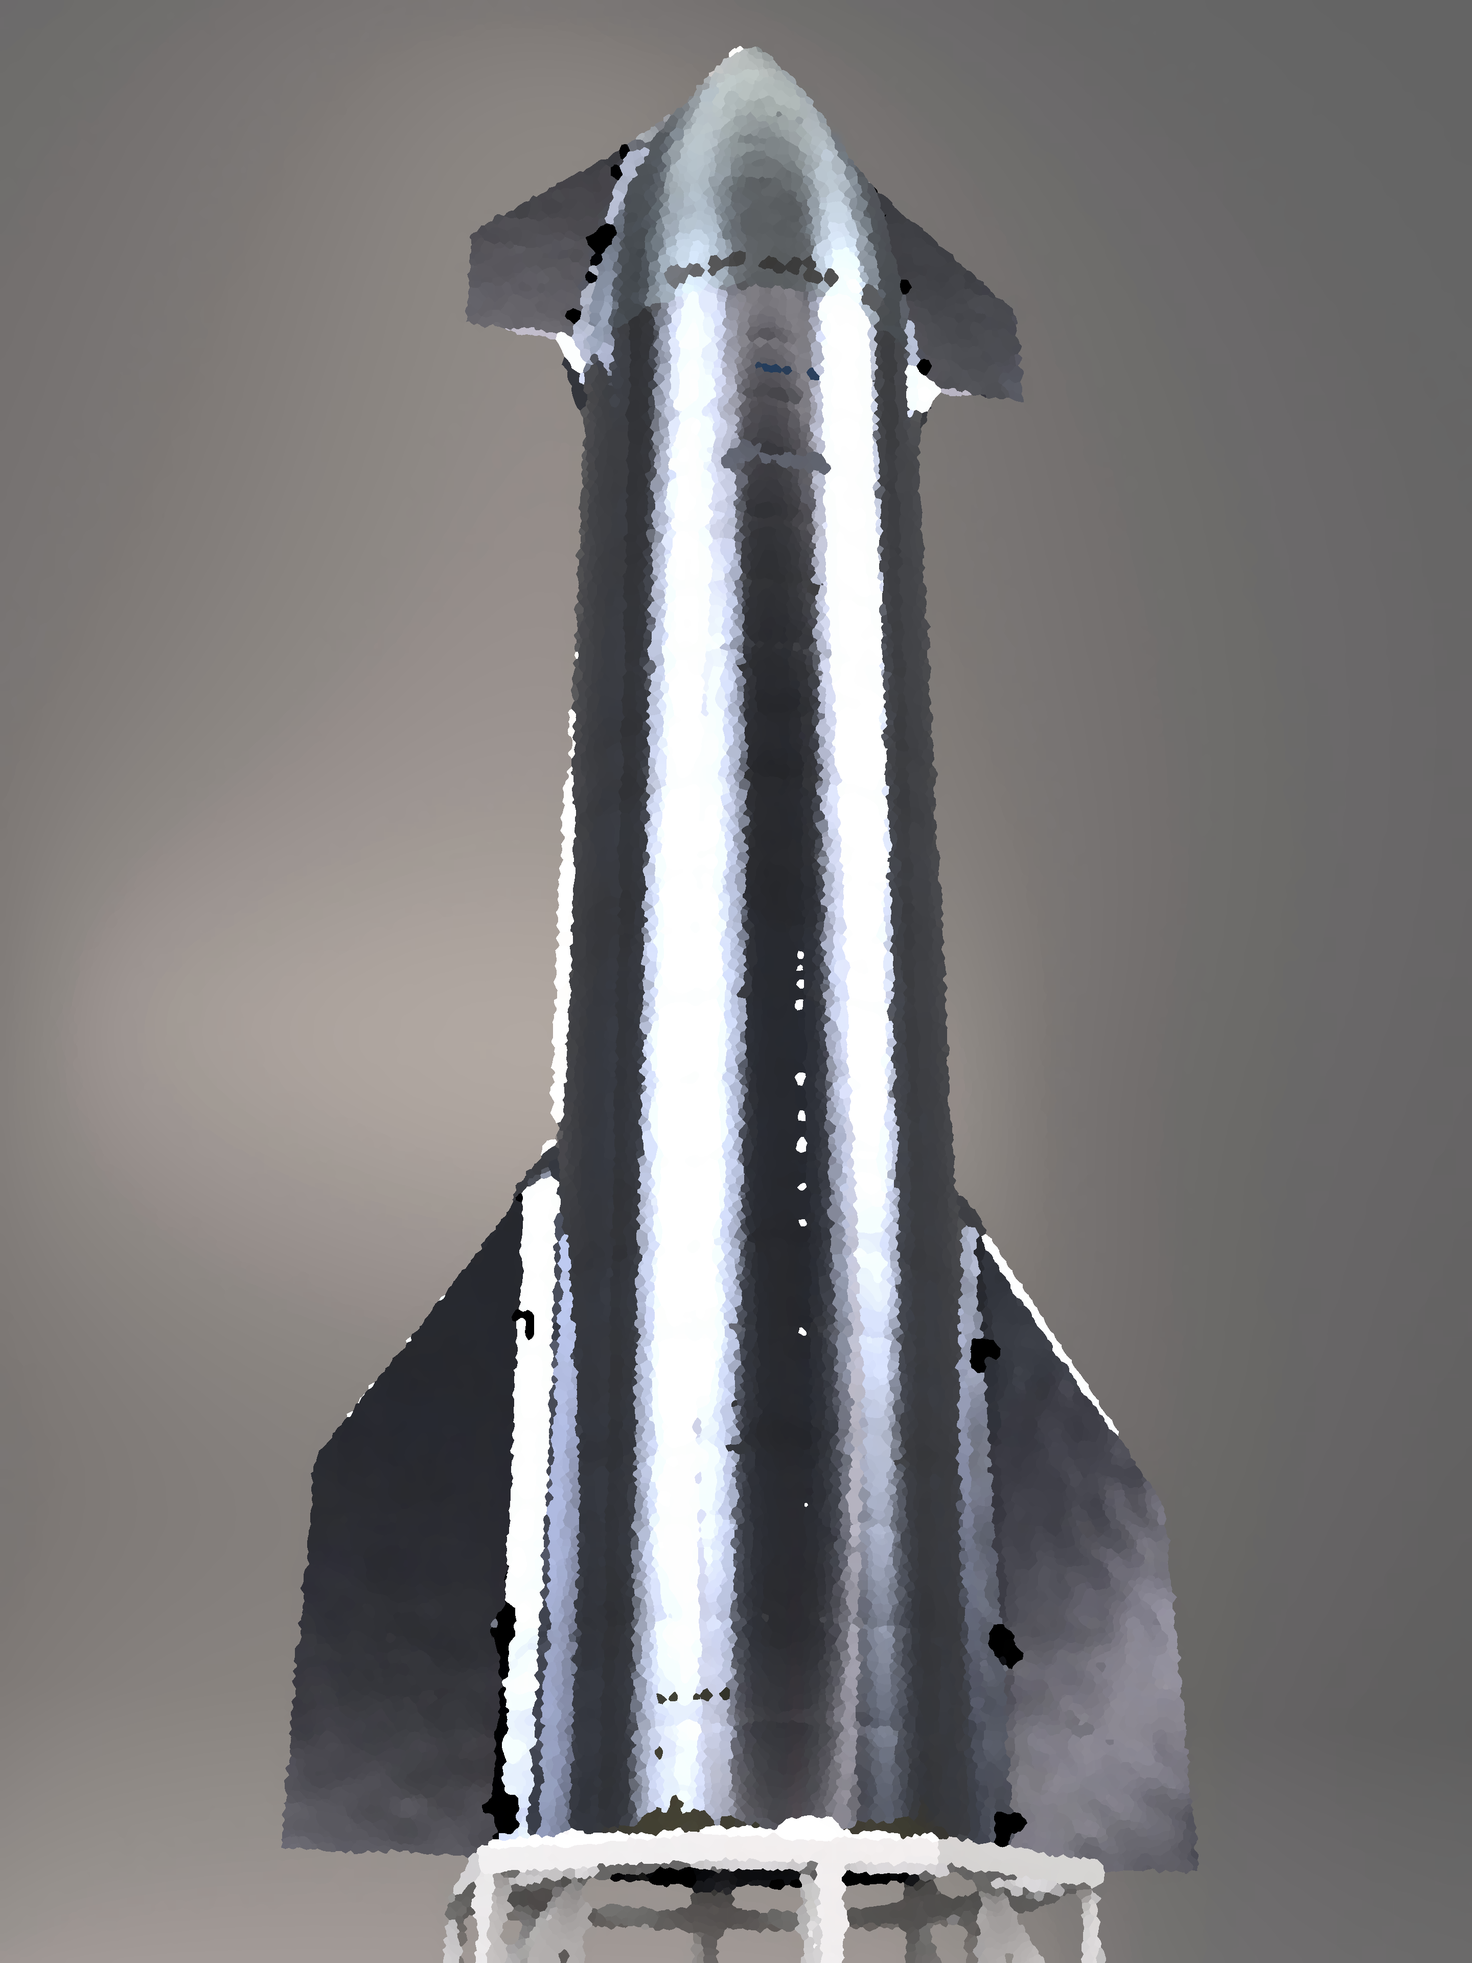
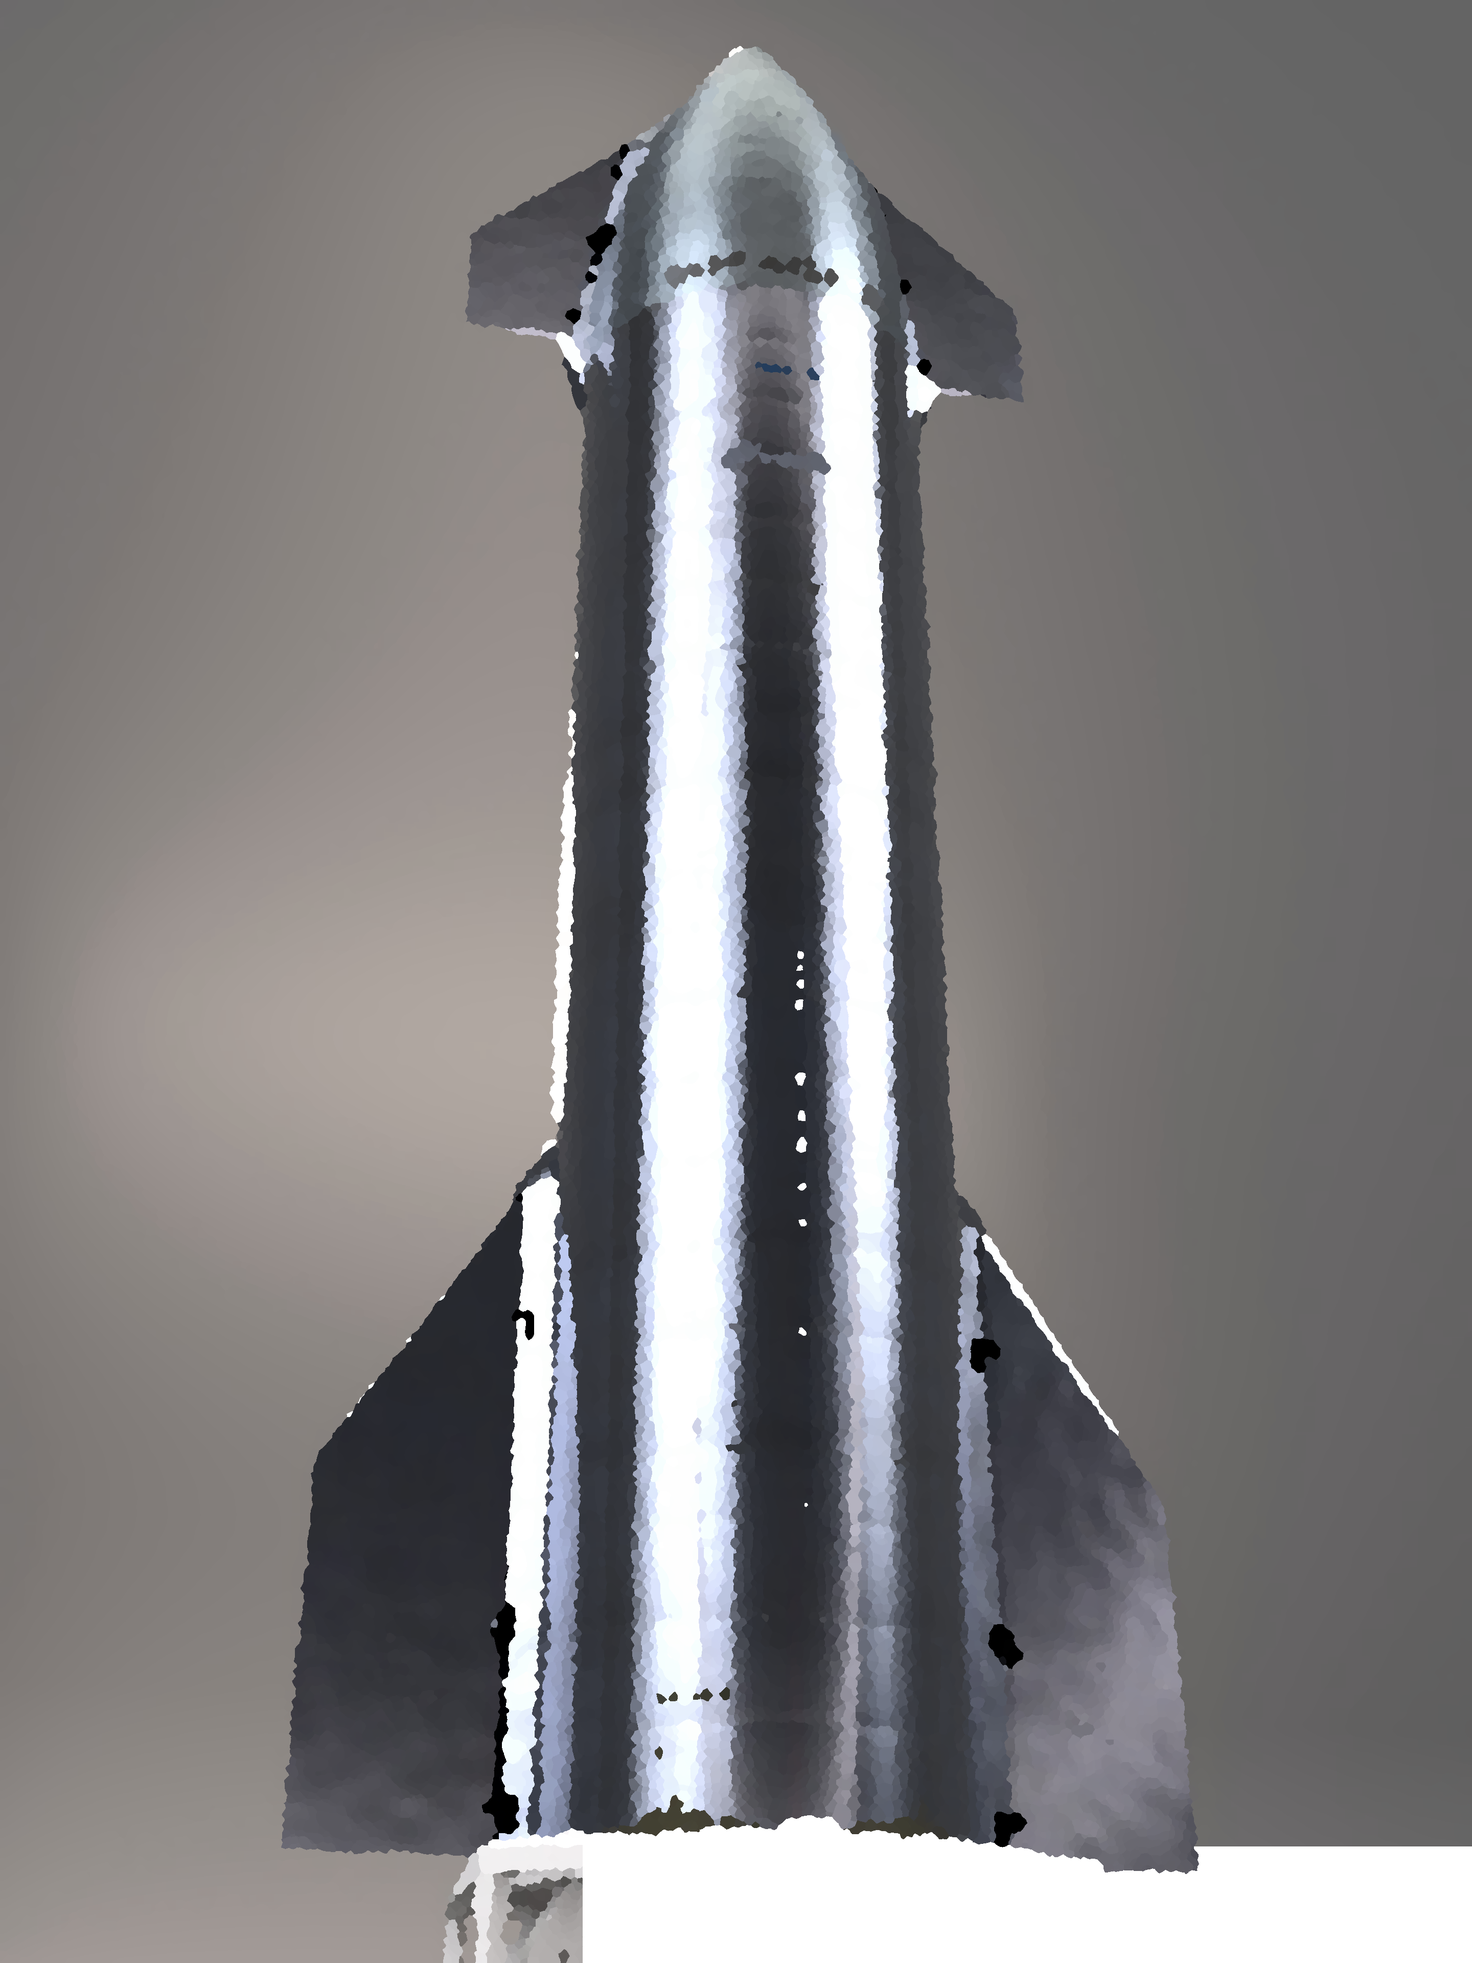
Added new scenes and fixed a but in the animation system that caused the animatable to go the wrong direction

Changed region(s): [[0.375, 0.9375, 1.0, 1.0]]

diff --git a/java/src/C19307776/Scenes/BoosterLanding.java b/java/src/C19307776/Scenes/BoosterLanding.java
@@ -6,7 +6,7 @@ import C19307776.Properties;
 import java.util.Map;
 import C19307776.utils.*;
 
-public class Takeoff extends Scene{
+public class BoosterLanding extends Scene{
 
 	Animatable background;
 	Animatable launchPad;
@@ -14,28 +14,27 @@ public class Takeoff extends Scene{
 	Animatable flame;
 	Animatable[] exhaustClouds = new Animatable[22];
 
-	public Takeoff(Visuals v) {
-		this.sceneLength = 1100;
+	public BoosterLanding(Visuals v) {
+		this.sceneLength = 360;
 
 		//Intialise viewport units
 		VHVW d = new VHVW(v.width, v.height);
 
 		background = new Animatable(v, "assets/ocean.png", d.vw(50f), d.vh(50f), Map.of("prop", (float) d.vw(90f), "parallax", 0.001f));
 		launchPad = new Animatable(v, "assets/launch_platform.png", d.vw(40f), d.vh(50f), Map.of("prop", (float) d.vh(50f), "parallax", 0.001f));
-		starship = new Animatable(v, "assets/full_starship.png", d.vw(47f), d.vh(47f), Map.of("prop", (float) d.vw(26f), "parallax", 0.001f));
-		flame = new Animatable(v, "assets/flames.png", d.vw(47f), d.vh(72f), Map.of("prop", (float) d.vw(3f), "parallax", 0.001f));
+		starship = new Animatable(v, "assets/superheavy_booster.png", d.vw(47f), -d.vh(10f), Map.of("prop", (float) d.vw(15f), "parallax", 0.001f));
+		flame = new Animatable(v, "assets/flames.png", d.vw(47f), d.vh(62f), Map.of("prop", (float) d.vw(3f), "parallax", 0.001f));
 
 		//Sets the duration of that sprites appear on the screen
 		background.setDuration(1100);
 		launchPad.setDuration(1100);
-		flame.setDuration(1100);
+		flame.setDuration(180, 1100);
 		starship.setDuration(1100);
 
 		//Sprite animations
-		starship.animateProperty(Map.of("property", Properties.YPOS.getValue(), "to", (int) d.vh(46.82f), "startTime", 300, "duration", 600), -d.vh(0.0003f));
-		starship.animateProperty(Map.of("property", Properties.YPOS.getValue(), "to", (int) -d.vh(10f), "startTime", 900, "duration", 300), 0);
-		flame.animateProperty(Map.of("property", Properties.YPOS.getValue(), "to", (int) d.vh(71.82f), "startTime", 300, "duration", 600), -d.vh(0.0003f));
-		flame.animateProperty(Map.of("property", Properties.YPOS.getValue(), "to", (int) -d.vh(40f), "startTime", 900, "duration", 600), 0);
+		starship.animateProperty(Map.of("property", Properties.YPOS.getValue(), "to", (int) d.vh(47f), "startTime", 0, "duration", 180), 0);
+		starship.animateProperty(Map.of("property", Properties.YPOS.getValue(), "to", (int) d.vh(57f), "startTime", 180, "duration", 120), 0);
+		flame.animateProperty(Map.of("property", Properties.YPOS.getValue(), "to", (int) d.vh(72f), "startTime", 0, "duration", 120), 0);
 
 		//Adding sprites to the scene
 		this.addToScene(background);
@@ -45,12 +44,12 @@ public class Takeoff extends Scene{
 
 		for(int i = 0; i < 11; i++) {
 			exhaustClouds[i] = new Animatable(v, "assets/launch_cloud/frame"+i+".png", d.vw(47f), d.vh(67.5f), Map.of("prop", (float) d.vw(3f), "parallax", 0.001f));
-			exhaustClouds[i].setDuration(300+(i*15), 15);
+			exhaustClouds[i].setDuration(180+(i*15), 15);
 			this.addToScene(exhaustClouds[i]);
 		}
 		for(int i = 0; i < 11; i++) {
 			exhaustClouds[i+10] = new Animatable(v, "assets/launch_cloud/frame"+(10-i)+".png", d.vw(47f), d.vh(67.5f), Map.of("prop", (float) d.vw(3f), "parallax", 0.001f));
-			exhaustClouds[i+10].setDuration(300+((i+10)*15), 15);
+			exhaustClouds[i+10].setDuration(180+((i+10)*15), 15);
 			this.addToScene(exhaustClouds[i+10]);
 		}
 	}

diff --git a/java/src/C19307776/Scenes/BoosterReturn.java b/java/src/C19307776/Scenes/BoosterReturn.java
@@ -7,44 +7,41 @@ import C19307776.Properties;
 import java.util.Random;
 import C19307776.utils.*;
 
-public class TakeOff2 extends Scene {
-	Animatable starship;
-	Animatable flame;
+public class BoosterReturn extends Scene {
+	Animatable superheavy;
 	Animatable background;
 
-	public TakeOff2(Visuals v) {
+	public BoosterReturn(Visuals v) {
 		this.sceneLength = 300;
 
 		VHVW d = new VHVW(v.width, v.height);
 
 		background = new Animatable(v, "assets/sky.png", d.vw(50f), d.vh(50f), Map.of("prop", (float) d.vw(90f), "parallax", 0.001f));
-		starship = new Animatable(v, "assets/full_starship.png", d.vw(50f), d.vh(50f), Map.of("prop", (float) d.vh(80f), "parallax", 0.003f));
-		flame = new Animatable(v, "assets/flames.png", d.vw(50f), d.vh(90f), Map.of("prop", (float) d.vw(5f), "parallax", 0.001f));
+		superheavy = new Animatable(v, "assets/superheavy_booster.png", d.vw(50f), d.vh(50f), Map.of("prop", (float) d.vh(80f), "r", 5f, "parallax", 0.003f));
+		//flame = new Animatable(v, "assets/flames.png", d.vw(50f), d.vh(90f), Map.of("prop", (float) d.vw(5f), "parallax", 0.001f));
 
 		background.setDuration(300);
-		starship.setDuration(300);
-		flame.setDuration(300);
+		superheavy.setDuration(300);
 
 		this.addToScene(background);
 		
 		Random r = new Random();
 		for(int i = 0; i < 5; i++) {
 			float xPos = r.nextFloat()*100;
-			float yPos = -50 + r.nextFloat()*100;
+			float yPos = 100 + r.nextFloat()*100;
 			Animatable cloud = new Animatable(v, "assets/cloud1.png", d.vw(xPos), d.vh(yPos), Map.of("prop", (float) d.vw(15f), "parallax", 0.001f));
-			cloud.animateProperty(Map.of("property", Properties.YPOS.getValue(), "to", (int) d.vh(yPos+100), "startTime", 0, "duration", 300), 0);
+			cloud.animateProperty(Map.of("property", Properties.YPOS.getValue(), "to", (int) d.vh(yPos-600), "startTime", 0, "duration", 300), 0);
 			cloud.setDuration(300);
 			this.addToScene(cloud);
 		}
 
-		this.addToScene(flame);
-		this.addToScene(starship);
+		this.addToScene(superheavy);
 
 		for(int i = 0; i < 5; i++) {
 			float xPos = r.nextFloat()*100;
-			float yPos = r.nextFloat()*100;
+			float yPos = 200 + r.nextFloat()*100;
 			Animatable cloud = new Animatable(v, "assets/cloud2.png", d.vw(xPos), d.vh(yPos), Map.of("prop", (float) d.vw(20f), "parallax", 0.005f));
-			cloud.animateProperty(Map.of("property", Properties.YPOS.getValue(), "to", (int) d.vh(yPos+100), "startTime", 0, "duration", 300), 0);
+			cloud.animateProperty(Map.of("property", Properties.YPOS.getValue(), "to", (int) d.vh(yPos-600), "startTime", 0, "duration", 300), 0);
 			cloud.setDuration(300);
 			this.addToScene(cloud);
 		}

diff --git a/java/src/C19307776/Scenes/Curvature.java b/java/src/C19307776/Scenes/Curvature.java
@@ -4,19 +4,21 @@ import java.util.Map;
 import C19307776.Animatable;
 import C19307776.Visuals;
 import C19307776.Scene;
-import C19307776.utils.VHVW;
 import C19307776.Properties;
+import C19307776.utils.*;
 
 public class Curvature extends Scene {
+	Animatable stars;
 	Animatable earth;
 	Animatable starship;
 	Animatable flame;
 
 	public Curvature(Visuals v) {
-		this.sceneLength = 900;
+		this.sceneLength = 660;
 
 		VHVW d = new VHVW(v.width, v.height);
 
+		stars = new Animatable(v, "assets/stars.png", d.vw(50f), d.vh(50f), Map.of("prop", (float) d.vw(90f)));
 		earth = new Animatable(v, "assets/earth.png", d.vw(50f) ,  d.vh(250f), Map.of("prop", d.vw(200f), "parallax", 0.001f));
 		starship = new Animatable(v, "assets/full_starship.png", d.vw(50f), d.vh(70f), Map.of("prop", (float) d.vh(5f), "parallax", 0.003f));
 		flame = new Animatable(v, "assets/flames.png", d.vw(58.5f), d.vh(40f), Map.of("prop", (float) d.vw(0.3f), "r", 90f, "parallax", 0.003f));
@@ -29,16 +31,18 @@ public class Curvature extends Scene {
 		starship.animateProperty(Map.of("property", Properties.SCALE.getValue(), "to", (int)  d.vh(90f), "startTime", 300, "duration", 300), 0);
 		starship.animateProperty(Map.of("property", Properties.XPOS.getValue(), "to", (int) d.vw(45f), "startTime", 300, "duration", 300), 0);
 
-		flame.animateProperty(Map.of("property", Properties.XPOS.getValue(), "to", (int) d.vw(26f), "startTime", 0, "duration", 300), 0);
+		flame.animateProperty(Map.of("property", Properties.XPOS.getValue(), "to", (int) d.vw(15.76f), "startTime", 0, "duration", 300), 0);
 		flame.animateProperty(Map.of("property", Properties.SCALE.getValue(), "to", (int) d.vw(5f), "startTime", 0, "duration", 300), 0);
 
 		earth.animateProperty(Map.of("property", Properties.SCALE.getValue(), "to", (int) d.vw(100f), "startTime", 300, "duration", 300), 0);
 		earth.animateProperty(Map.of("property", Properties.YPOS.getValue(), "to", (int) d.vh(300f), "startTime", 300, "duration", 300), 0);
 
+		stars.setDuration(900);
 		earth.setDuration(900);
 		starship.setDuration(900);
 		flame.setDuration(300, 900);
 
+		this.addToScene(stars);
 		this.addToScene(earth);
 		this.addToScene(starship);
 		this.addToScene(flame);

diff --git a/java/src/C19307776/Scenes/EarthSystem.java b/java/src/C19307776/Scenes/EarthSystem.java
@@ -4,25 +4,32 @@ import C19307776.Scene;
 import C19307776.Visuals;
 import C19307776.Properties;
 import java.util.Map;
+import C19307776.utils.*;
 
 public class EarthSystem extends Scene{
-	float earthSize;
+	Animatable stars;
 	Animatable earth;
 	Animatable starship;
 
 	public EarthSystem(Visuals v) {
-		this.sceneLength = 2800;
-		earthSize = v.height*0.80f;
-		earth = new Animatable(v, "assets/earth.png", v.width/2, v.height/2, Map.of("prop",v.height*0.75f, "parallax", 0.003f));
-		starship = new Animatable(v, "assets/starship_bellyflop.png", 1000, v.height/2, Map.of("prop",earthSize, "parallax", 0.01f));
+		this.sceneLength = 420;
+
+		VHVW d = new VHVW(v.width, v.height);
+
+		stars = new Animatable(v, "assets/stars.png", d.vw(50f), d.vh(50f), Map.of("prop", (float) d.vw(90f)));
+		earth = new Animatable(v, "assets/earth.png", d.vw(50f), d.vh(50f), Map.of("prop",d.vh(75f), "parallax", 0.003f));
+		starship = new Animatable(v, "assets/starship_upperstage.png", d.vw(50f), d.vh(50f), Map.of("prop", d.vh(25f), "r", 90f, "parallax", 0.01f));
 
 		v.background(0);
-		earth.setDuration(2800);
-		starship.setDuration(2800);
+		stars.setDuration(420);
+		earth.setDuration(420);
+		starship.setDuration(420);
 		//earth.animateProperty(Properties.XPOS.getValue(), 1500, 0, 600);
 		//earth.animateProperty(Properties.YPOS.getValue(), 0, 0, 600);
-		//starship.animateProperty(Map.of("property", Properties.XPOS.getValue(), "to", 2000, "startTime", 0, "duration", 2800), -0.001f);
+		starship.animateProperty(Map.of("property", Properties.XPOS.getValue(), "to", (int) d.vw(60f), "startTime", 0, "duration", 420), 0);
 		//starship.animateProperty(Properties.ROTATION.getValue(), 36000, 0, 120);
+		
+		this.addToScene(stars);
 		this.addToScene(earth);
 		this.addToScene(starship);
 	}

diff --git a/java/src/C19307776/Scenes/StarshipRefuel.java b/java/src/C19307776/Scenes/StarshipRefuel.java
@@ -1,0 +1,39 @@
+package C19307776.Scenes;
+import C19307776.Scene;
+import C19307776.Visuals;
+import C19307776.Animatable;
+import java.util.Map;
+import C19307776.Properties;
+import C19307776.utils.*;
+
+public class StarshipRefuel extends Scene {
+	Animatable stars;
+	Animatable starship1;
+	Animatable starship2;
+
+	public StarshipRefuel(Visuals v) {
+
+		this.sceneLength = 1620;
+
+		VHVW d = new VHVW(v.width, v.height);
+
+		stars = new Animatable(v, "assets/stars.png", d.vw(50f), d.vh(50f), Map.of("prop", (float) d.vw(90f)));
+		starship1 = new Animatable(v, "assets/starship_upperstage.png", d.vw(25f), d.vh(50f), Map.of("prop", (float) d.vw(32f), "r", -88f, "parallax", 0.003f));
+		starship2 = new Animatable(v, "assets/starship_upperstage.png", d.vw(62f), d.vh(50f), Map.of("prop", (float) d.vw(32f), "r", 90f, "parallax", 0.003f));
+
+		stars.setDuration(1620);
+		starship1.setDuration(1620);
+		starship2.setDuration(1620);
+
+		starship1.animateProperty(Map.of("property", Properties.XPOS.getValue(), "to", (int) d.vw(31.5f), "startTime", 0, "duration", 510), 0);
+
+		//starship2.animateProperty(Map.of("property", Properties.XPOS.getValue(), "to", (int) d.vw(80f), "startTime", 60, "duration", 940), 0);
+		//starship1.animateProperty(Map.of("property", Properties.XPOS.getValue(), "to", (int) d.vw(25), "startTime", 120, "duration", 800), 0);
+		//starship1.animateProperty(Map.of("property", Properties.YPOS.getValue(), "to", (int) d.vh(55), "startTime", 120, "duration", 800), 0);
+		//starship1.animateProperty(Map.of("property", Properties.ROTATION.getValue(), "to", (int) -35f, "startTime", 120, "duration", 880), 0);
+
+		this.addToScene(stars);
+		this.addToScene(starship1);
+		this.addToScene(starship2);
+	}
+}

diff --git a/java/src/C19307776/Scenes/BoosterSep.java b/java/src/C19307776/Scenes/BoosterSep.java
@@ -1,0 +1,37 @@
+package C19307776.Scenes;
+import C19307776.Scene;
+import C19307776.Visuals;
+import C19307776.Animatable;
+import java.util.Map;
+import C19307776.Properties;
+import C19307776.utils.*;
+
+public class BoosterSep extends Scene {
+	Animatable stars;
+	Animatable superheavy;
+	Animatable starship;
+
+	public BoosterSep(Visuals v) {
+
+		this.sceneLength = 1000;
+
+		VHVW d = new VHVW(v.width, v.height);
+
+		stars = new Animatable(v, "assets/stars.png", d.vw(50f), d.vh(50f), Map.of("prop", (float) d.vw(90f)));
+		superheavy = new Animatable(v, "assets/superheavy_booster.png", d.vw(35f), d.vh(50f), Map.of("prop", (float) d.vw(32f), "r", 90f, "parallax", 0.003f));
+		starship = new Animatable(v, "assets/starship_upperstage.png", d.vw(62f), d.vh(50f), Map.of("prop", (float) d.vw(26f), "r", 90f, "parallax", 0.003f));
+
+		stars.setDuration(1000);
+		superheavy.setDuration(1000);
+		starship.setDuration(1000);
+
+		starship.animateProperty(Map.of("property", Properties.XPOS.getValue(), "to", (int) d.vw(80f), "startTime", 60, "duration", 940), 0);
+		superheavy.animateProperty(Map.of("property", Properties.XPOS.getValue(), "to", (int) d.vw(25), "startTime", 120, "duration", 800), 0);
+		superheavy.animateProperty(Map.of("property", Properties.YPOS.getValue(), "to", (int) d.vh(55), "startTime", 120, "duration", 800), 0);
+		superheavy.animateProperty(Map.of("property", Properties.ROTATION.getValue(), "to", (int) -35f, "startTime", 120, "duration", 880), 0);
+
+		this.addToScene(stars);
+		this.addToScene(superheavy);
+		this.addToScene(starship);
+	}
+}

diff --git a/java/src/C19307776/Animatable.java b/java/src/C19307776/Animatable.java
@@ -88,27 +88,37 @@ public class Animatable {
 		//determine which property is being run
 		if(props.get("property") == Properties.WIDTH.getValue()) {
 			val = lastWidth;
+			lastWidth = props.get("to");
 		}else if(props.get("property") == Properties.HEIGHT.getValue()) {
 			val = lastHeight;
+			lastHeight = props.get("to");
 		}else if(props.get("property") == Properties.XPOS.getValue()) {
 			val = lastX;
 			if(acceleration > 0 || acceleration < 0) {
 				speedX = acceleration;
 			}
+			lastX = props.get("to");
 		}else if(props.get("property") == Properties.YPOS.getValue()) {
 			val = lastY;
+			System.out.println(val);
 			if(acceleration > 0 || acceleration < 0) {
 				speedY = acceleration;
 			}
+			lastY = props.get("to");
 		}else if(props.get("property") == Properties.ROTATION.getValue()) {
 			val = lastRotation;
+			lastRotation = props.get("to");
 		}else if(props.get("property") == Properties.SCALE.getValue()) {
 			val = lastScale;
+			lastScale = props.get("to");
 		}
 		//The list of animatation properties
 		ArrayList<Float> arr = new ArrayList<Float>();
 		arr.add((float) props.get("duration"));
 		arr.add((float) props.get("property"));
+		if(props.get("property") == 3) {
+			System.out.println(Properties.YPOS.getValue()+" "+props.get("property")+" "+props.get("to")+" "+val);
+		}
 		arr.add((props.get("to")-val)/props.get("duration"));
 		if(acceleration > 0 || acceleration < 0) {
 			System.out.println(acceleration);

diff --git a/java/src/C19307776/Animation.java b/java/src/C19307776/Animation.java
@@ -5,6 +5,9 @@ import C19307776.audioSystem.*;
 public class Animation extends Visuals {
 	SceneManager scenes;
 	Song donau;
+	int time = 0;
+
+	int testFrames = 0;
 
 	Animation() {
 		
@@ -26,8 +29,13 @@ public class Animation extends Visuals {
 		scenes.addScene(new Takeoff(this));
 		scenes.addScene(new TakeOff2(this));
 		scenes.addScene(new Curvature(this));
+		scenes.addScene(new BoosterSep(this));
+		scenes.addScene(new BoosterReturn(this));
+		scenes.addScene(new BoosterLanding(this));
 		scenes.addScene(new EarthSystem(this));
-		scenes.addScene(new MarsSystem(this));
+		scenes.addScene(new Takeoff(this));
+		scenes.addScene(new StarshipRefuel(this));
+		//scenes.addScene(new MarsSystem(this));
 		scenes.setCurrentScene(0);
 
 		//Loads and plays the music
@@ -51,5 +59,11 @@ public class Animation extends Visuals {
 		background(0);
 		//Draws the current sceme
 		scenes.animateScene();
+		if(testFrames != scenes.animationLength()) {
+			if(frameCount%60 == 0) {
+				println(++time);
+			}
+			testFrames++;
+		}
 	}
 }

diff --git a/java/src/C19307776/Scene.java b/java/src/C19307776/Scene.java
@@ -6,8 +6,8 @@ import java.util.ArrayList;
 	objects in the scene.
 */
 public class Scene extends Visuals {
-	protected Visuals v;
 	protected int sceneLength = 0;
+
 
 	protected ArrayList<Animatable> objects = new ArrayList<Animatable>();
 
